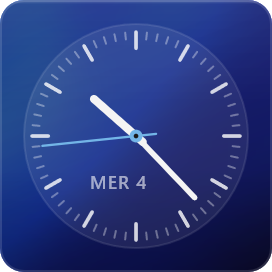
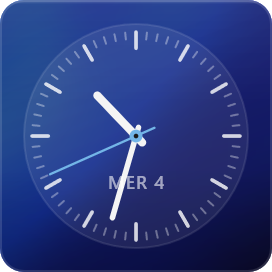
Analog clock: centre the date
Claude-Session: https://claude.ai/code/session_01TQxuuqy7Zop3gq1fjvXepm

Changed region(s): [[0.1471, 0.3235, 0.7353, 0.8235], [0.1765, 0.6176, 0.2353, 0.6471]]

diff --git a/src/analog/index.tsx b/src/analog/index.tsx
@@ -105,7 +105,7 @@ function Analog() {
               left: c() - d() * 0.2,
               top: c() + r() * 0.3,
               width: d() * 0.4,
-              alignItems: "center",
+              justifyContent: "center",
             }}
           >
             <text style={{ fontSize: Math.max(9, Math.round(d() * 0.075)), fontWeight: 600, color: p().text3, letterSpacing: 0.5, textTransform: "uppercase" }}>
